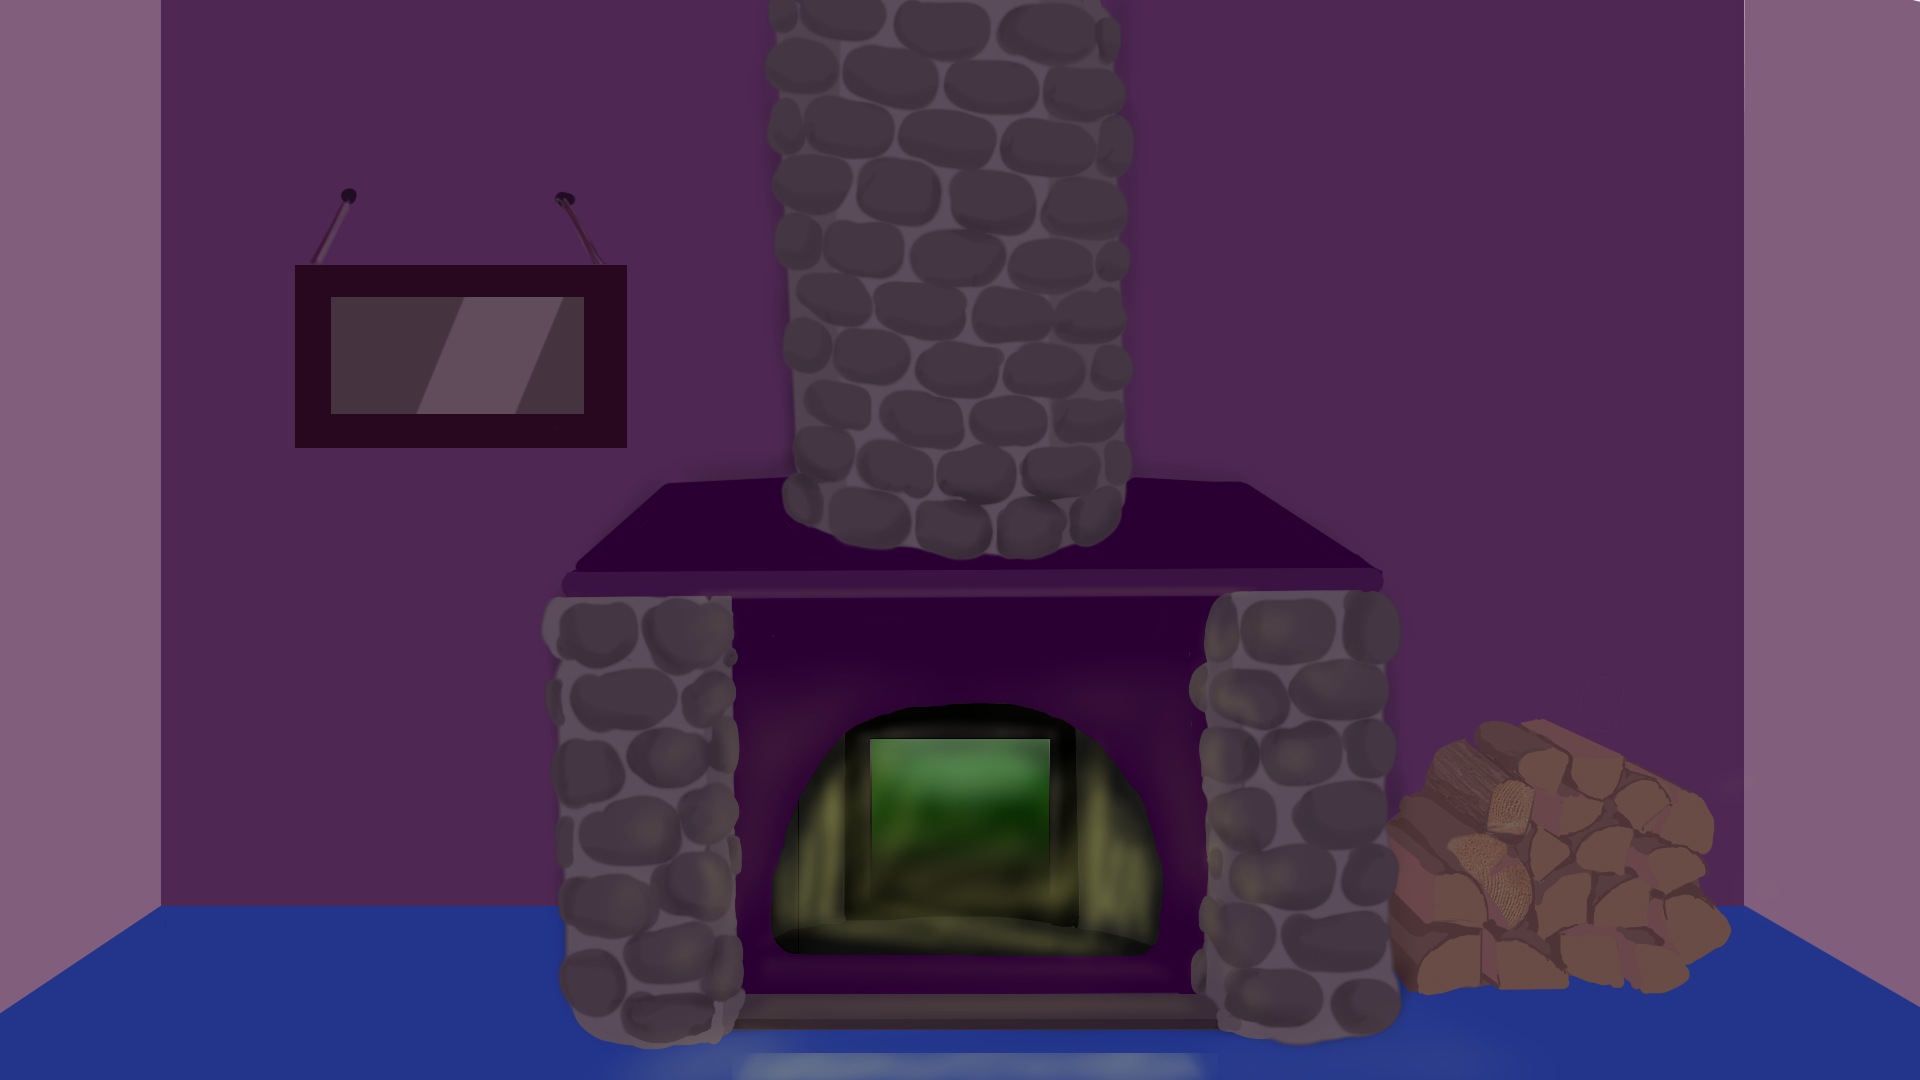
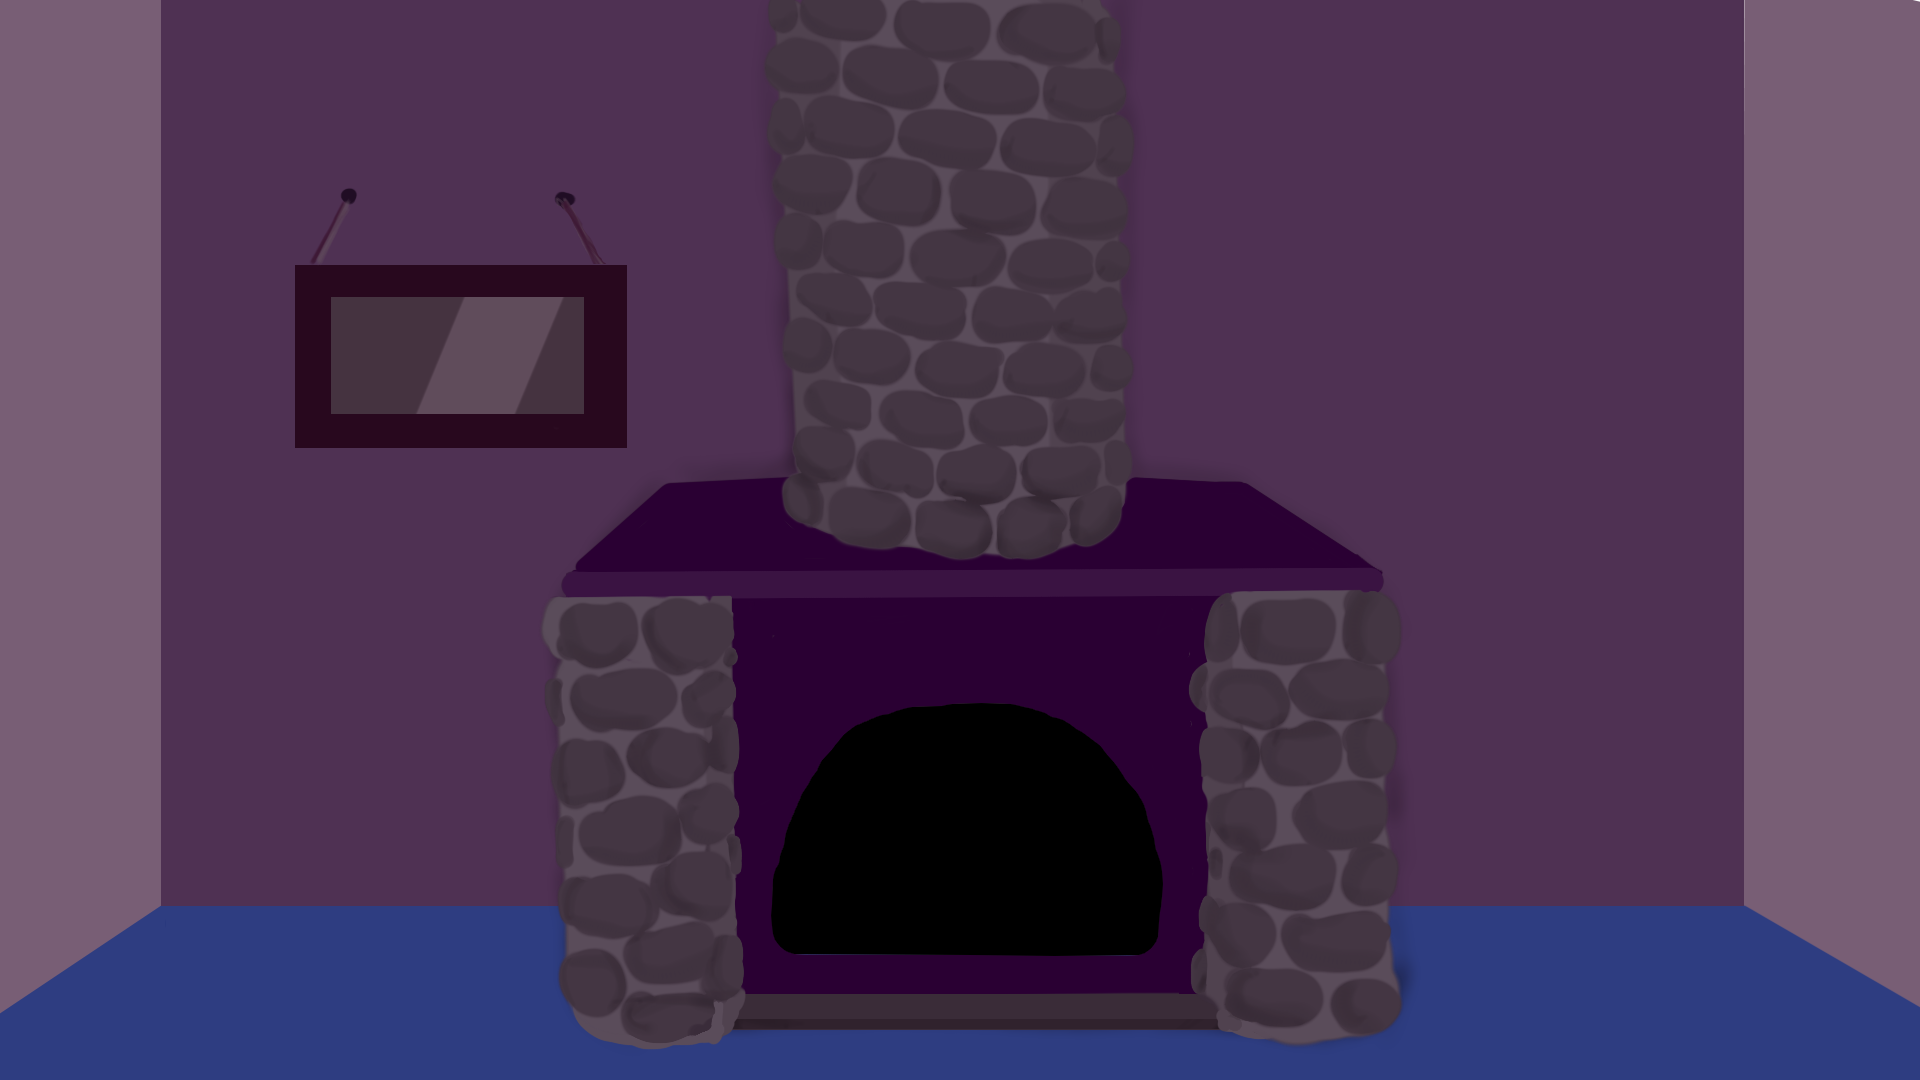
Various updates
kaks taski; lisan State'ide pilte; Prop on nüüd ise group (nagu raam)
ning imageView on selle isendiväli. Image endiselt State'i käes.

Changed region(s): [[0.375, 0.6722, 0.625, 0.8861], [0.7188, 0.6722, 0.9062, 0.9167], [0.375, 0.9778, 0.625, 1.0]]

diff --git a/Escape Game Without a Great Name/src/unitTests/animationTest.java b/Escape Game Without a Great Name/src/unitTests/animationTest.java
@@ -37,7 +37,18 @@ public class animationTest extends Application {
 		
 		String[] crateAddress = {"file:data/Testing/flame.png"};
 		String[] crateAddress2 = {"file:data/Testing/flame2.png"};
+		String[] holeAddress = {"file:data/Testing/kaminaAuk.png"};
 
+		StaticProp hole = new StaticProp("3", null, null, holeAddress, null, false, false);
+		Group holeHolder = new Group();
+		holeHolder.getChildren().add(hole);
+		hole.Load();
+		holeHolder.setLayoutX(316.6);
+		holeHolder.setLayoutY(320);
+		holeHolder.setScaleX(0.545); holeHolder.setScaleY(0.545);
+		
+		
+		
 		StaticProp itemExample = new StaticProp("1", null, null, crateAddress, null, false, false);
 		Group itemHolder = new Group();
 		itemHolder.getChildren().add(itemExample);
@@ -58,7 +69,7 @@ public class animationTest extends Application {
 		itemHolder2.setRotate(7);
 		itemExample2.setScaleX(0.545); itemExample2.setScaleY(0.545);
 		
-		xdGroup.getChildren().addAll(itemHolder, itemHolder2);
+		xdGroup.getChildren().addAll(holeHolder, itemHolder, itemHolder2);
 		
 		itemHolder2.setOnMouseClicked(event -> {itemExample2.hide(); itemExample.hide();});
 		itemHolder.setOnMouseClicked(event -> {itemExample2.hide(); itemExample.hide();});

diff --git a/Escape Game Without a Great Name/src/stateMachine/DynamicActiveState.java b/Escape Game Without a Great Name/src/stateMachine/DynamicActiveState.java
@@ -3,12 +3,13 @@ package stateMachine;
 import java.util.HashMap;
 import java.util.Map.Entry;
 
+import javafx.event.Event;
 import javafx.scene.Group;
 import roomStructure.DynamicProp;
 
 public class DynamicActiveState extends DynamicState {
 	
-	private HashMap<Entry<Integer, Integer>, Group> possibleLocations;
+	private HashMap<Entry<Integer, Integer>, Entry<Group, Event>> possibleLocations;
 	
 	@Override
 	public void pickUp() {
@@ -22,11 +23,11 @@ public class DynamicActiveState extends DynamicState {
 				((DynamicProp)owner).idleState);
 	}
 	
-	public boolean isLocationValid(Entry<Integer, Integer> roomNview, Group destination)
+	public boolean validLocation(Entry<Integer, Integer> roomNview, Group destination)
 	{
 		if (!possibleLocations.containsKey(roomNview))
 			return false;
-		return possibleLocations.get(roomNview).equals(destination);
+		return possibleLocations.get(roomNview).getKey().equals(destination);
 	};
 	
 

diff --git a/Escape Game Without a Great Name/src/roomStructure/Prop.java b/Escape Game Without a Great Name/src/roomStructure/Prop.java
@@ -1,12 +1,14 @@
 package roomStructure;
 
 import gameEngine.Clickable;
+import javafx.scene.Group;
 import javafx.scene.image.ImageView;
 
 
-public abstract class Prop extends javafx.scene.image.ImageView implements Clickable
+public abstract class Prop extends Group implements Clickable
 {
 	protected String ID;
+	protected ImageView imageHolder;
 	
 	// Pusle, mille koosseisu ese kuulub 
 	protected Puzzle puzzle;

diff --git a/Escape Game Without a Great Name/src/roomStructure/StaticProp.java b/Escape Game Without a Great Name/src/roomStructure/StaticProp.java
@@ -25,7 +25,7 @@ public class StaticProp extends Prop implements Switchable{
 	@Override
 	public void Load() 
 	{
-		this.setImage(currentState.getImageRepresentation());
+		imageHolder.setImage(currentState.getImageRepresentation());
 	}
 
 	@Override
@@ -58,6 +58,7 @@ public class StaticProp extends Prop implements Switchable{
 	public void hide()
 	{
 		setOpacity(0);
+		lockState();
 	}
 	public void unHide()
 	{
